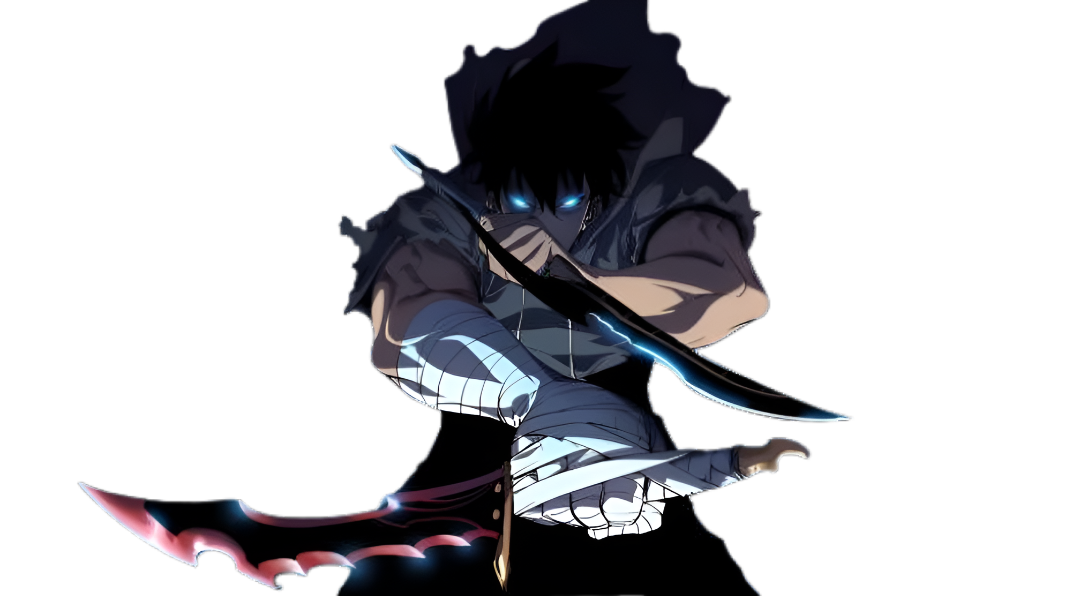
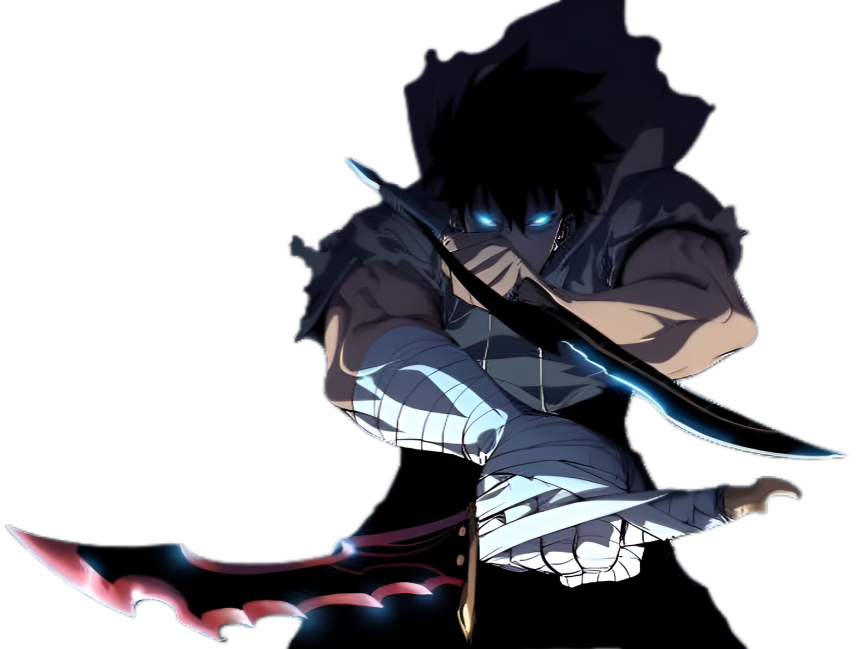
update

diff --git a/static/js/script.js b/static/js/script.js
@@ -1,75 +1,125 @@
+// ALL global variable declarations should be at the very top of your script.js file.
+// Character data
 const CHARACTER_DATA = {
     "sung-jin-woo": {
         name: "SUNG JIN WOO",
         korean: "(성진우)",
         title: "Shadow Monarch A.K.A",
         description: "Sung Jin-Woo is the main character of Solo Leveling. He starts as the weakest hunter but gains a unique ability to level up after surviving a deadly dungeon. With his new powers, he becomes the Shadow Monarch, commanding an army of shadows. Jin-Woo transforms from a powerless fighter into the world’s strongest hunter, protecting his loved ones and battling powerful enemies.",
-        image: "static/img/sung-jin-woo-main.png",
-        theme: "theme-jinwoo",
-        rank: "S",
-        glowClass: "glow-s"
+        image: "static/img/sung-jin-woo-main.png",// Use Flask's url_for for robustness
+        theme: "jinwoo"
     },
     "cha-hae-in": {
-        name: "CHA HAE IN",
+        name: "CHA HAE-IN",
         korean: "(차해인)",
-        title: "The Dancer A.K.A",
+        title: "Vice-Guild Master of Hunters",
         description: "Cha Hae In is the Vice-Guild Master of the Hunters Guild. Known for her incredible swordsmanship and strong sense of justice, she is one of Korea's top hunters. Her sense of smell makes her wary of most magic beasts and people—except for Sung Jin-Woo, who doesn't emit a foul aura. As the story progresses, she becomes closer to Jin-Woo and plays a key role in major battles.",
-        image: "static/img/cha-hae-in-main.png",
-        theme: "theme-haein",
-        rank: "A",
-        glowClass: "glow-a"
+        image: "static/img/cha-hae-in-main.png", // Use Flask's url_for for robustness
+        theme: "haein"
     }
 };
 
-function switchCharacter(id) {
-    const data = CHARACTER_DATA[id];
+// Default character - this also needs to be defined globally and early
+let currentCharacter = "sung-jin-woo";
 
-    // Update texts
-    document.querySelector('.character-name').innerHTML = `${data.name} <span class="korean-name">${data.korean}</span>`;
-    document.querySelector('.character-title').textContent = data.title;
-    document.querySelector('.character-about-placeholder p').textContent = data.description;
-
-    // Update image
-    document.getElementById('character-main-image').src = data.image;
-
-    // Update background theme
-    const bg = document.getElementById('character-background-overlay');
-    bg.className = ''; // Clear previous theme
-    bg.classList.add(data.theme);
-
-    // Update rank symbol
-    const rankSymbol = document.getElementById('rank-symbol');
-    const rankText = document.querySelector('.rank-text');
-
-    rankSymbol.textContent = data.rank;
-    rankText.textContent = data.rank ? " RANK" : "";
-
-    // Remove existing glow classes
-    rankSymbol.className = '';
-    if (data.glowClass) {
-        rankSymbol.classList.add(data.glowClass);
+// Function to update the theme and content
+function updateCharacterInfo(characterKey) {
+    console.log(`[updateCharacterInfo] Called for: ${characterKey}`);
+    const data = CHARACTER_DATA[characterKey];
+    if (!data) {
+        console.error(`[updateCharacterInfo] Character data not found for key: ${characterKey}`);
+        return;
     }
+
+    // Wrap the problematic line (and related DOM manipulations) in a small delay
+    // This gives the browser a tiny bit more time to ensure the DOM is fully ready.
+    // We added this based on the "highlights p" but still "null" error
+    setTimeout(() => {
+        console.log(`[setTimeout] Attempting to update DOM for ${characterKey}`);
+
+        const charNameElement = document.querySelector(".character-name");
+        if (charNameElement) {
+            charNameElement.textContent = data.name;
+            console.log(`[setTimeout] Updated .character-name to: ${data.name}`);
+        } else {
+            console.error("[setTimeout] Element .character-name not found!");
+        }
+
+        const koreanNameElement = document.querySelector(".korean-name");
+        if (koreanNameElement) {
+            koreanNameElement.textContent = data.korean;
+            console.log(`[setTimeout] Updated .korean-name to: ${data.korean}`);
+        } else {
+            console.error("[setTimeout] Element .korean-name not found!");
+        }
+
+        const charTitleElement = document.querySelector(".character-title");
+        if (charTitleElement) {
+            charTitleElement.textContent = data.title;
+            console.log(`[setTimeout] Updated .character-title to: ${data.title}`);
+        } else {
+            console.error("[setTimeout] Element .character-title not found!");
+        }
+
+        // THIS IS THE LINE THAT WAS CAUSING THE TypeError (script.js:36:56 in previous consoles)
+        const aboutPlaceholderElement = document.querySelector(".character-about-placeholder p");
+        if (aboutPlaceholderElement) { // Always check for null before setting properties
+            aboutPlaceholderElement.textContent = data.description;
+            console.log("[setTimeout] Successfully updated .character-about-placeholder p");
+        } else {
+            console.error("CRITICAL ERROR: [setTimeout] '.character-about-placeholder p' element was NULL!");
+        }
+
+        const mainImageElement = document.getElementById("character-main-image");
+        if (mainImageElement) {
+            mainImageElement.src = data.image;
+            console.log(`[setTimeout] Updated #character-main-image src to: ${data.image}`);
+        } else {
+            console.error("[setTimeout] Element #character-main-image not found!");
+        }
+
+        // Update theme
+        document.body.classList.remove("theme-jinwoo", "theme-haein");
+        document.body.classList.add(`theme-${data.theme}`);
+        console.log(`[setTimeout] Body classes updated to: ${document.body.classList.value}`);
+
+        // Optional: Update overlay too, if needed
+        const bgOverlayElement = document.getElementById("character-background-overlay");
+        if (bgOverlayElement) {
+            // Note: getComputedStyle must be called *after* class is added for correct theme variable
+            bgOverlayElement.style.background = getComputedStyle(document.body).getPropertyValue("--bg-color-dark");
+            console.log(`[setTimeout] Updated #character-background-overlay background.`);
+        } else {
+            console.error("[setTimeout] Element #character-background-overlay not found!");
+        }
+
+    }, 100); // Increased delay slightly to 100 milliseconds
 }
 
-// Optional: Add button event listeners if needed
-// Example:
+// Ensure all DOM interactions happen AFTER the DOM is fully loaded.
 document.addEventListener("DOMContentLoaded", () => {
-    document.getElementById("sign").addEventListener("click", () => {
-        alert("Signup button clicked!");
-    });
+    console.log("------------------------------------------");
+    console.log("[DOMContentLoaded] DOM fully loaded and parsed. Initializing script.");
 
-    // Example character buttons (you'll need to add actual buttons in HTML with IDs or data attributes)
-    const characterButtons = document.querySelectorAll("[data-character-id]");
-    characterButtons.forEach(button => {
-        button.addEventListener("click", () => {
-            const characterId = button.getAttribute("data-character-id");
-            switchCharacter(characterId);
+    // Initial render
+    updateCharacterInfo(currentCharacter); // This should run immediately on page load
+
+    // Theme switcher logic
+    const rankToggle = document.getElementById("rank-toggle");
+
+    if (rankToggle) {
+        console.log("[DOMContentLoaded] #rank-toggle element found:", rankToggle); // Confirm element is found
+        // Add a temporary inline style to make it visually obvious it's clickable
+        // rankToggle.style.border = "2px solid lime"; // Optional: Add for visual debug
+        rankToggle.addEventListener("click", () => {
+            console.log("------------------------------------------");
+            console.log("[Click Event] #rank-toggle clicked!"); // Confirm click event fires
+            currentCharacter = currentCharacter === "sung-jin-woo" ? "cha-hae-in" : "sung-jin-woo";
+            console.log("[Click Event] New currentCharacter:", currentCharacter);
+            updateCharacterInfo(currentCharacter);
         });
-    });
+    } else {
+        console.error("[DOMContentLoaded] Element #rank-toggle NOT found! Click event won't work.");
+    }
+    console.log("------------------------------------------");
 });
-
-
-
-
-
-

diff --git a/static/css/style.css b/static/css/style.css
@@ -15,8 +15,8 @@
     --gradient-end-dark: #000000;
 }
 
-.dark-theme {
-    --bg-color-dark: linear-gradient(to bottom, #1b1d92 2%, #160266 40%, #000000 70%, #390b65 100%);
+.theme-jinwoo {
+    --bg-color-dark: linear-gradient(to left, #390b65 2%, #1b1d92 40%, #160266 70%, #000000 100%);
     --card-bg-dark: #2c2c54;
     --text-color-dark: #ffffff;
     --heading-color-dark: #ffcc00;
@@ -26,7 +26,7 @@
     --gradient-end-dark: #000000;
 }
 
-.light-theme {
+.theme-haein {
     --bg-color-dark: linear-gradient(to bottom, #3a3128 2%, #4c3d27 40%, #845d25 70%, #be892d 100%);
     --card-bg-dark: #ffffff;
     --text-color-dark: #f8f3f3;
@@ -75,29 +75,32 @@ body {
 #character-main-image {
     position: absolute;
     bottom: 0;
-    left: 50%;
+    left: 43%;
     transform: translateX(-50%);
     width: 100%;
-    max-width: 1800px;
+    max-width: 1340px;
     height: auto;
     object-fit: contain;
     object-position: center bottom;
     opacity: 1;
     pointer-events: none; /* Allows clicks to go through */
     display: block;
-    z-index: 9990; /* High enough to be over the body content, but below the *full* header */
+    z-index: 9; /* High enough to be over the body content, but below the *full* header */
 }
 
 /* Solid Background Overlay for the Character Image */
 #character-background-overlay {
-    position: absolute;
-    bottom: 0;
-    left: 50%;
-    transform: translateX(-50%);
-    width: 100%;
-    max-width: 1800px;
-    height: 800px; /* Adjust this value! */
-    z-index: 9989; /* Sits BELOW #character-main-image (9990) and #main-header (9999) */
+    position: fixed;
+    top: 0;
+    left: 0;
+    width: 100vw;
+    height: 100vh;
+    background: var(--bg-color-dark);
+    background-size: cover;
+    background-position: center;
+    z-index: -1; /* Send it behind everything */
+    transition: background 0.5s ease-in-out;
+    pointer-events: none;
 }
 
 /* Header - Top navigation section */
@@ -230,7 +233,7 @@ body {
     top:4em;
     right:9em;
     overflow: hidden;
-    z-index: 5;
+    z-index: 15;
 }
 
 .character-display {
@@ -240,15 +243,15 @@ body {
     width: 90%;
     max-width: 1100px;
     position: relative;
-    z-index: 2;
+    z-index: 10;
 }
 
 .character-info {
     flex-basis: 45%;
     border-radius: 15px;
-    position: relative;
+    position: relative; /* Keep this as it establishes a stacking context */
     right:20em;
-    z-index: 5;
+    z-index: 10; /* CHANGE THIS: Make it higher than the image's z-index */
     background-color: transparent;
     color: var(--text-color-dark);
 }
@@ -279,6 +282,8 @@ body {
     line-height: 1.6;
     margin-top: 1.5rem;
     text-align: justify; /* This aligns the ends of the lines */
+    position: relative;
+    z-index: 10;
 }
 
 .social-icons {
@@ -322,7 +327,7 @@ body {
   width: 600px; /* Adjust to match where your character image ends */
   height: 2px;
   background-color: rgba(255, 255, 255, 0.76);
-  z-index: 10;
+  z-index: 5;
 }
 
 #rank-toggle {
@@ -364,6 +369,20 @@ body {
 #character-background-overlay {
   pointer-events: none;
 }
+
+.glow-S {
+    font-family: 'Lakki Reddy', cursive;
+    font-size: 5rem;
+    color: #160266;
+    transform: skewX(-5deg) rotate(-2deg);
+    text-shadow:
+        0 0 10px #390b65,
+        0 0 20px #1b1d92,
+        0 0 40px #160266,
+        0 0 60px #000000;
+}
+
+
 
 
 

diff --git a/templates/index.html b/templates/index.html
@@ -8,7 +8,7 @@
     <link rel="stylesheet" href="{{ url_for('static', filename='css/style.css') }}">
 </head>
 <body>
-    <div id="character-background-overlay"></div>
+    <div id="character-background-overlay" class="theme-jinwoo"></div>
     <img id="character-main-image" src="{{ url_for('static', filename='img/sung-jin-woo-main.png') }}" alt="Sung Jin Woo">
 
     <header id="main-header">
